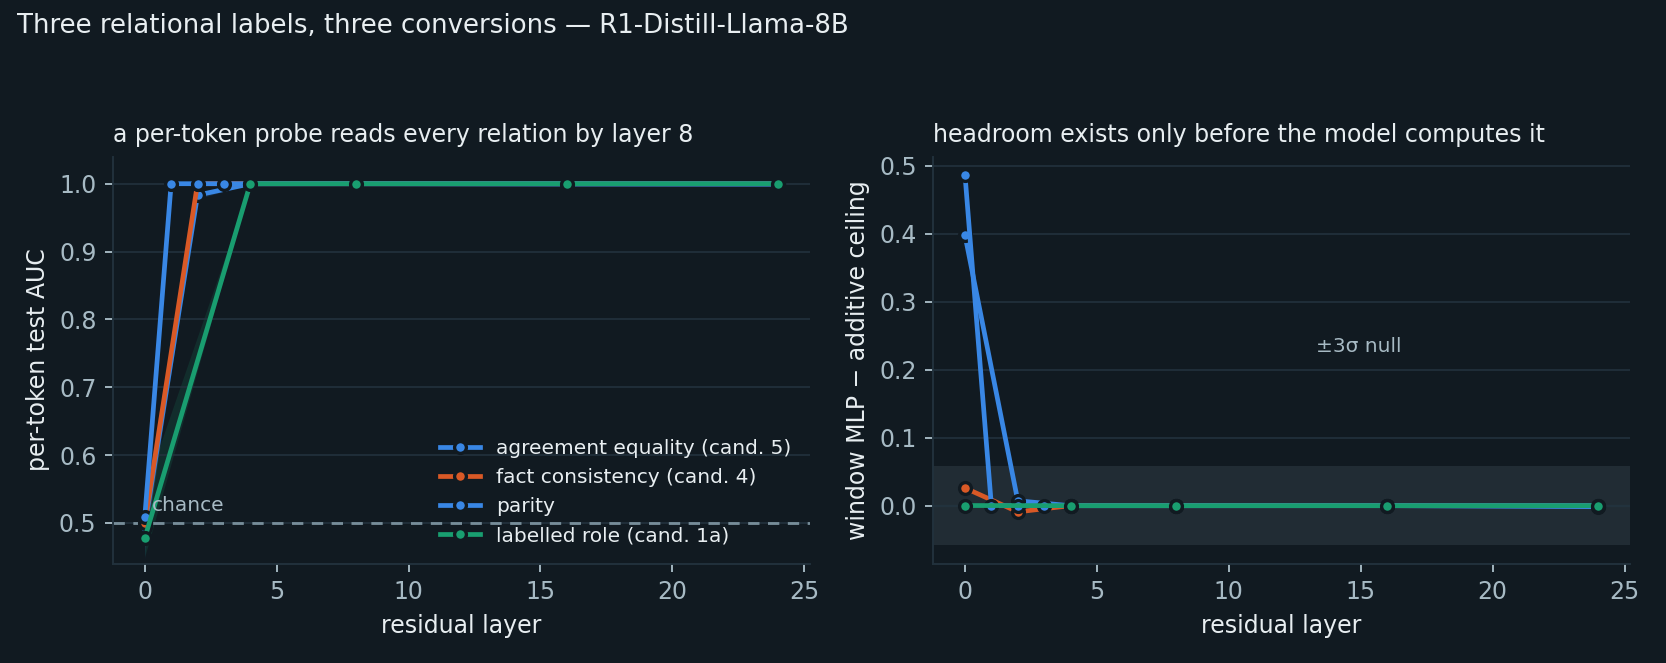
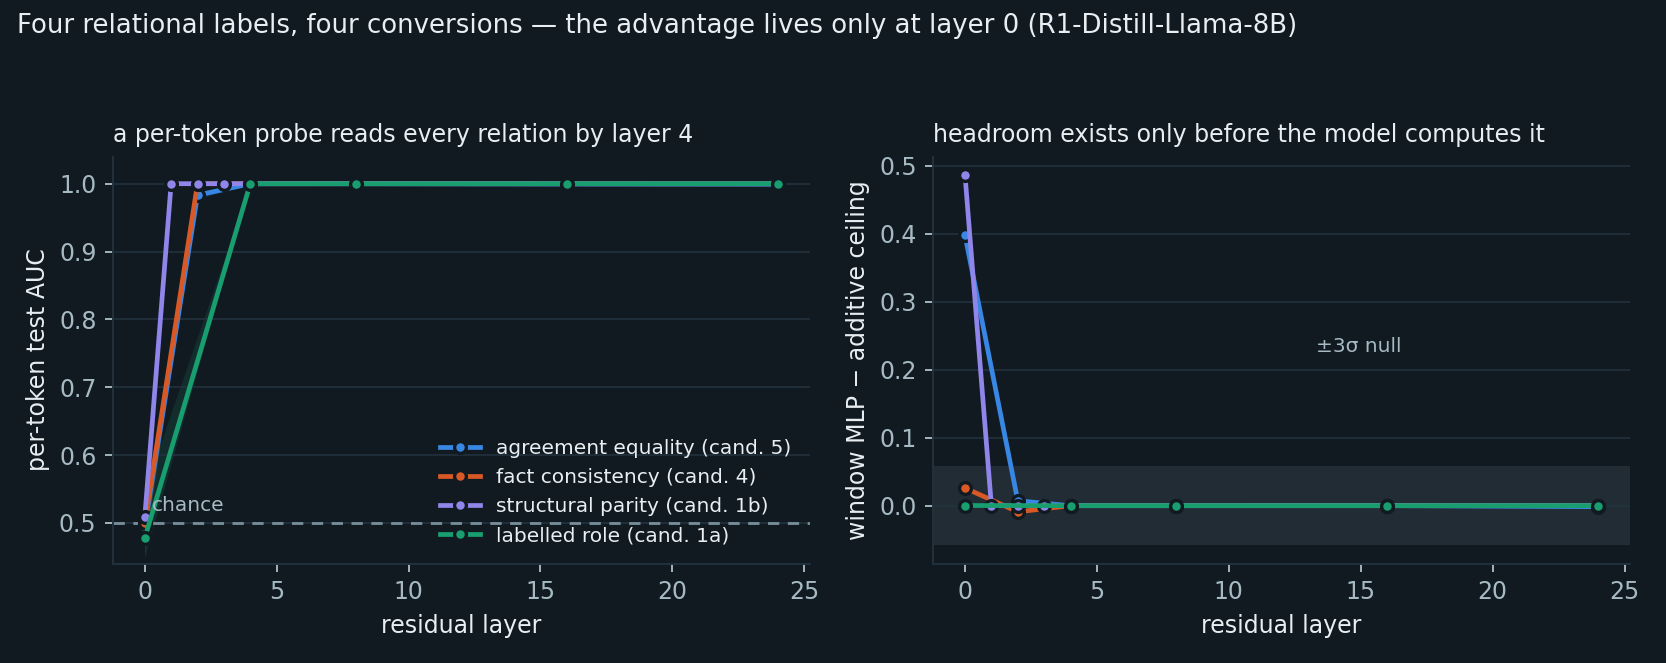
relational: atlas gains the parity series; dashboard records the revised conclusion
Four labels in the atlas now. Titles corrected to match the data (four
conversions, per-token reads every relation by layer 4, parity by layer 1).
Dashboard carries the verdict, the theorem verification, the boundary run, both
new disclosed anomalies (my own card's wrong claim; the mis-aimed oracle-pair
arm), and the revised headline finding.

diff --git a/experiments/explorations/relational/figs.py b/experiments/explorations/relational/figs.py
@@ -43,10 +43,10 @@ ARMS = [
 THEME = {
     "light": {"surface": "#ffffff", "ink": "#0b0b0b", "ink2": "#52514e",
               "grid": "#e4e6e8", "s1": "#2a78d6", "s2": "#eb6834",
-              "s3": "#1baf7a", "null": "#9aa0a6"},
+              "s3": "#1baf7a", "s4": "#4a3aa7", "null": "#9aa0a6"},
     "dark": {"surface": "#111a21", "ink": "#e8eef1", "ink2": "#a7bac4",
              "grid": "#22323d", "s1": "#3987e5", "s2": "#d95926",
-             "s3": "#199e70", "null": "#778d99"},
+             "s3": "#199e70", "s4": "#9085e9", "null": "#778d99"},
 }
 
 
@@ -240,11 +240,13 @@ def fig_conversion(payloads: list[dict], task: str, mode: str, T: int) -> Path:
     return out
 
 
-ATLAS_COLORS = {"agreement": "s1", "contradiction": "s2", "role": "s3"}
+ATLAS_COLORS = {"agreement": "s1", "contradiction": "s2", "role": "s3",
+                "parity": "s4"}
 ATLAS_LABEL = {
     "agreement": "agreement equality (cand. 5)",
     "contradiction": "fact consistency (cand. 4)",
     "role": "labelled role (cand. 1a)",
+    "parity": "structural parity (cand. 1b)",
 }
 
 
@@ -296,7 +298,7 @@ def fig_atlas(by_task: dict[str, list[dict]], mode: str) -> Path:
     axes[0].set_xlabel("residual layer"); axes[0].set_ylabel("per-token test AUC")
     axes[0].set_ylim(0.44, 1.04)
     axes[0].grid(axis="y", linewidth=0.7)
-    axes[0].set_title("a per-token probe reads every relation by layer 8",
+    axes[0].set_title("a per-token probe reads every relation by layer 4",
                       loc="left", fontsize=10)
     axes[0].legend(loc="lower right", fontsize=8.5)
 
@@ -312,7 +314,8 @@ def fig_atlas(by_task: dict[str, list[dict]], mode: str) -> Path:
     axes[1].grid(axis="y", linewidth=0.7)
     axes[1].set_title("headroom exists only before the model computes it",
                       loc="left", fontsize=10)
-    fig.suptitle("Three relational labels, three conversions — R1-Distill-Llama-8B",
+    fig.suptitle("Four relational labels, four conversions — the advantage lives "
+                 "only at layer 0 (R1-Distill-Llama-8B)",
                  x=0.01, ha="left", fontsize=11)
     fig.tight_layout(rect=(0, 0, 1, 0.93))
     out = FIGS / f"atlas_{mode}.png"
